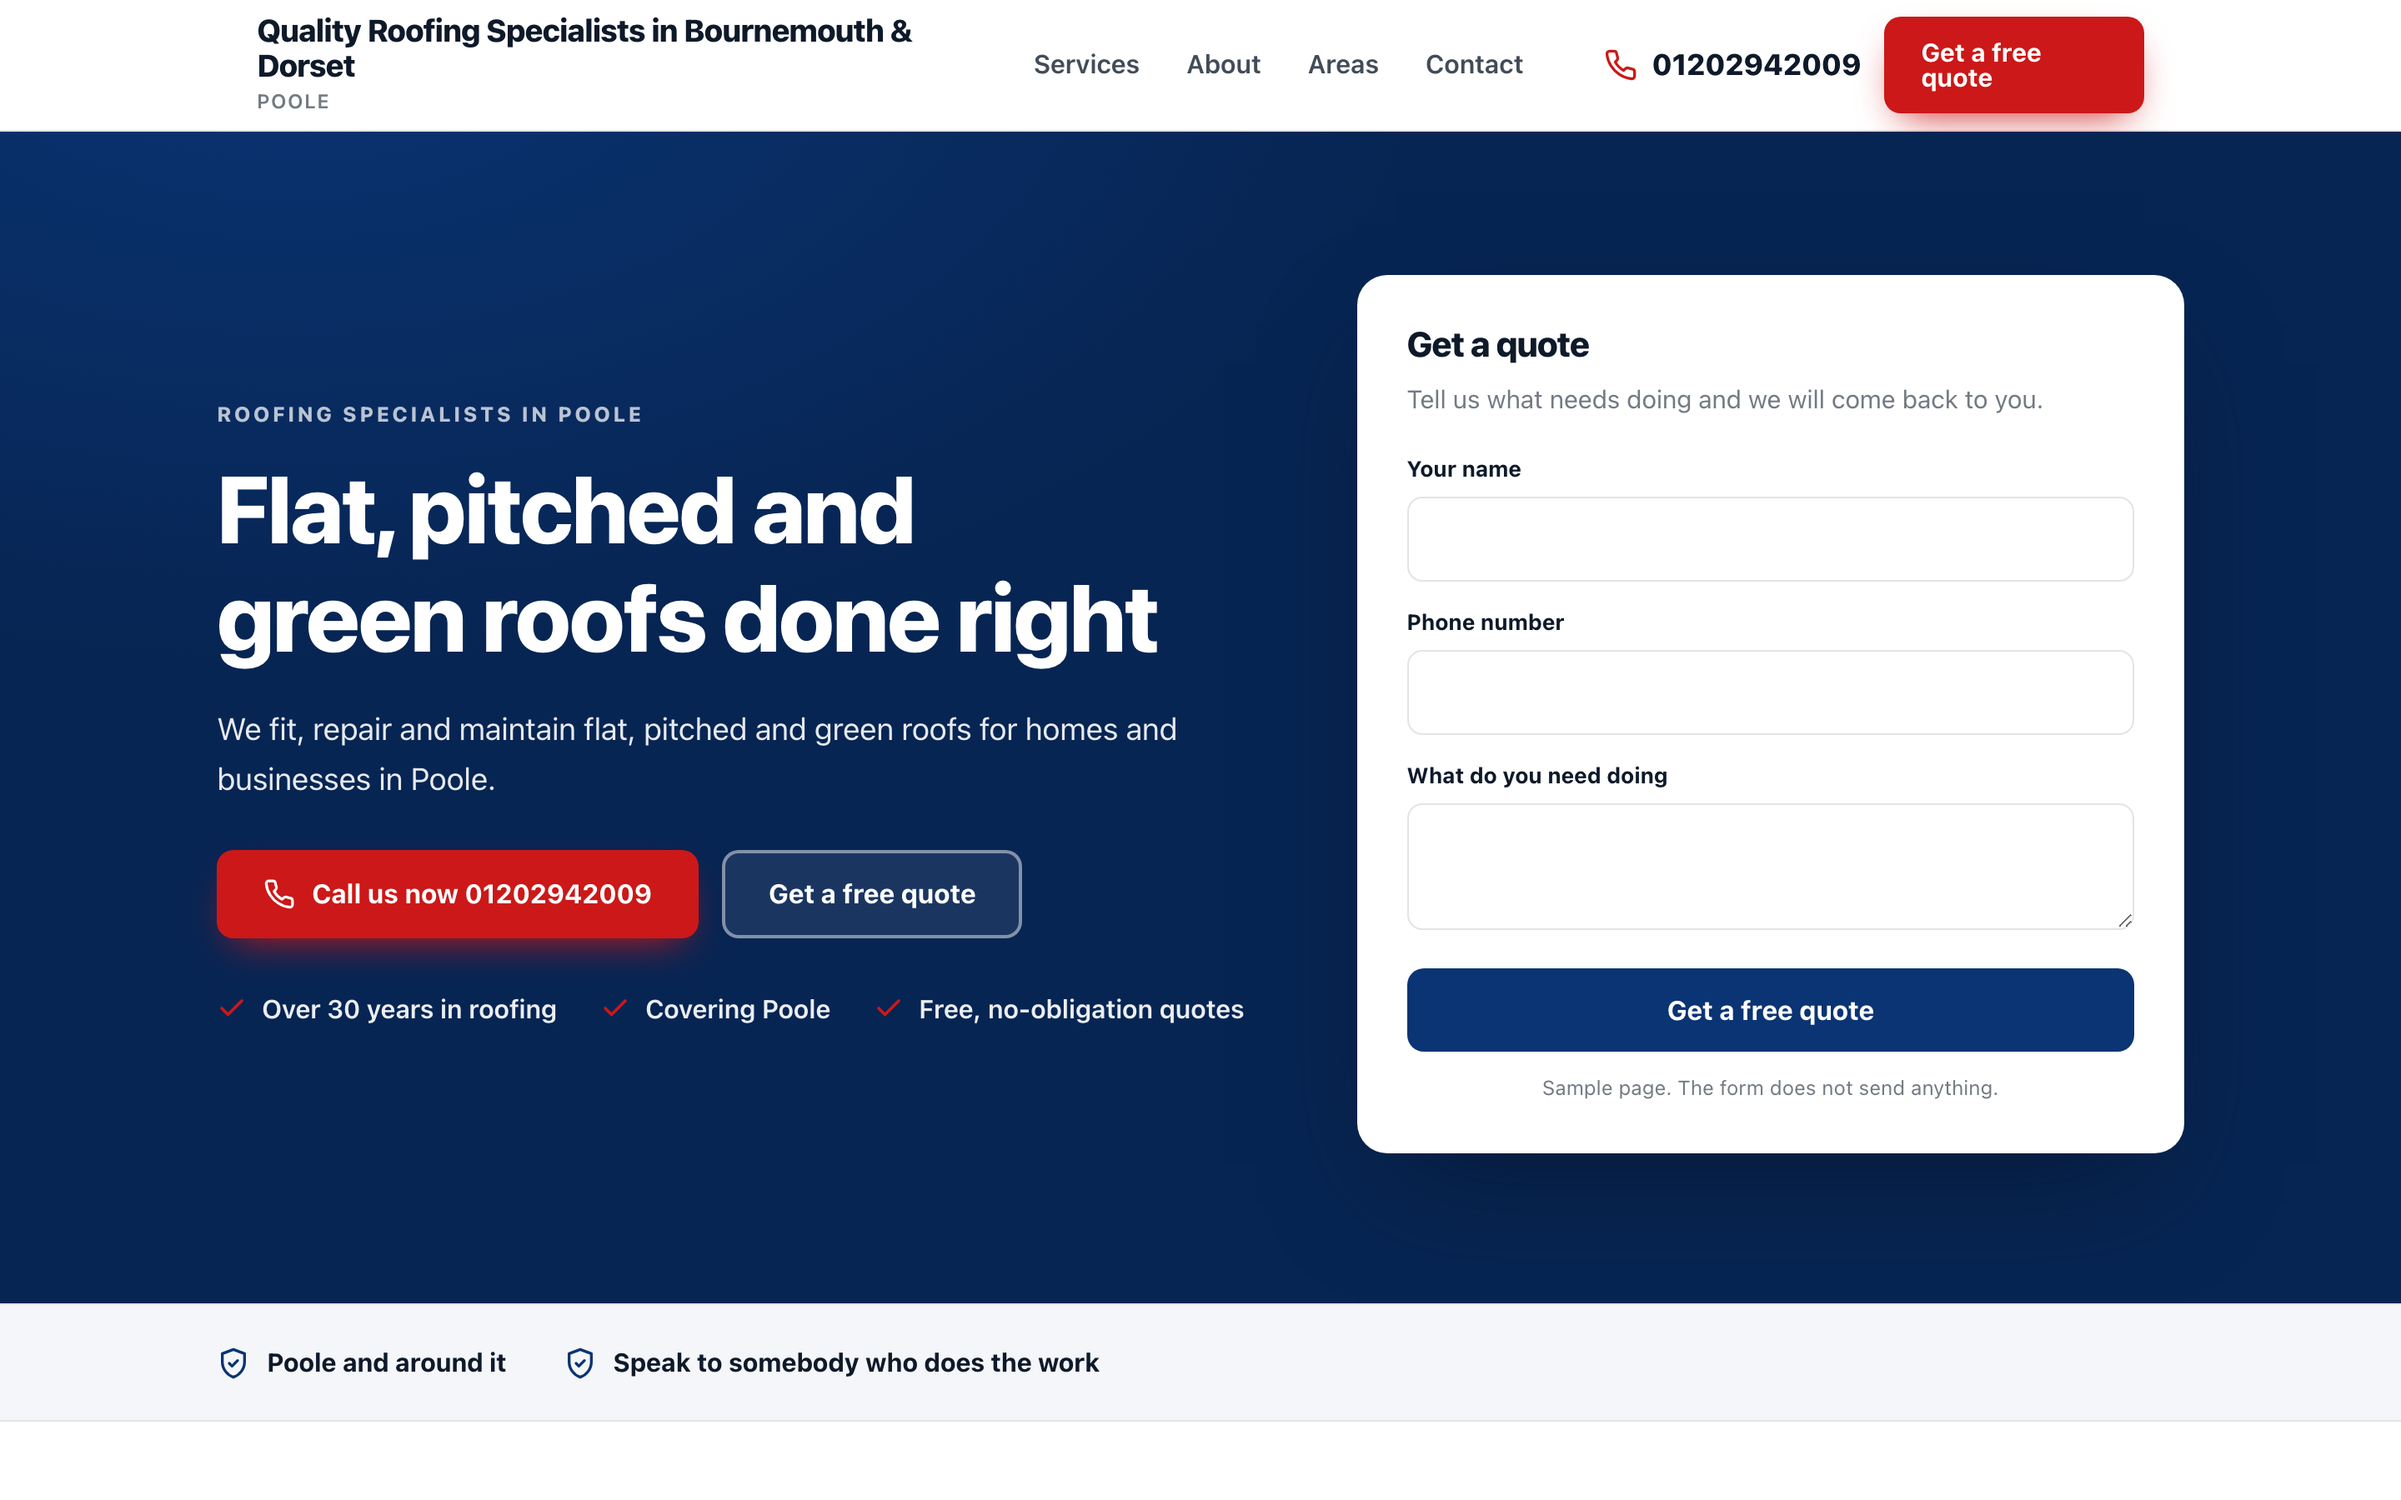
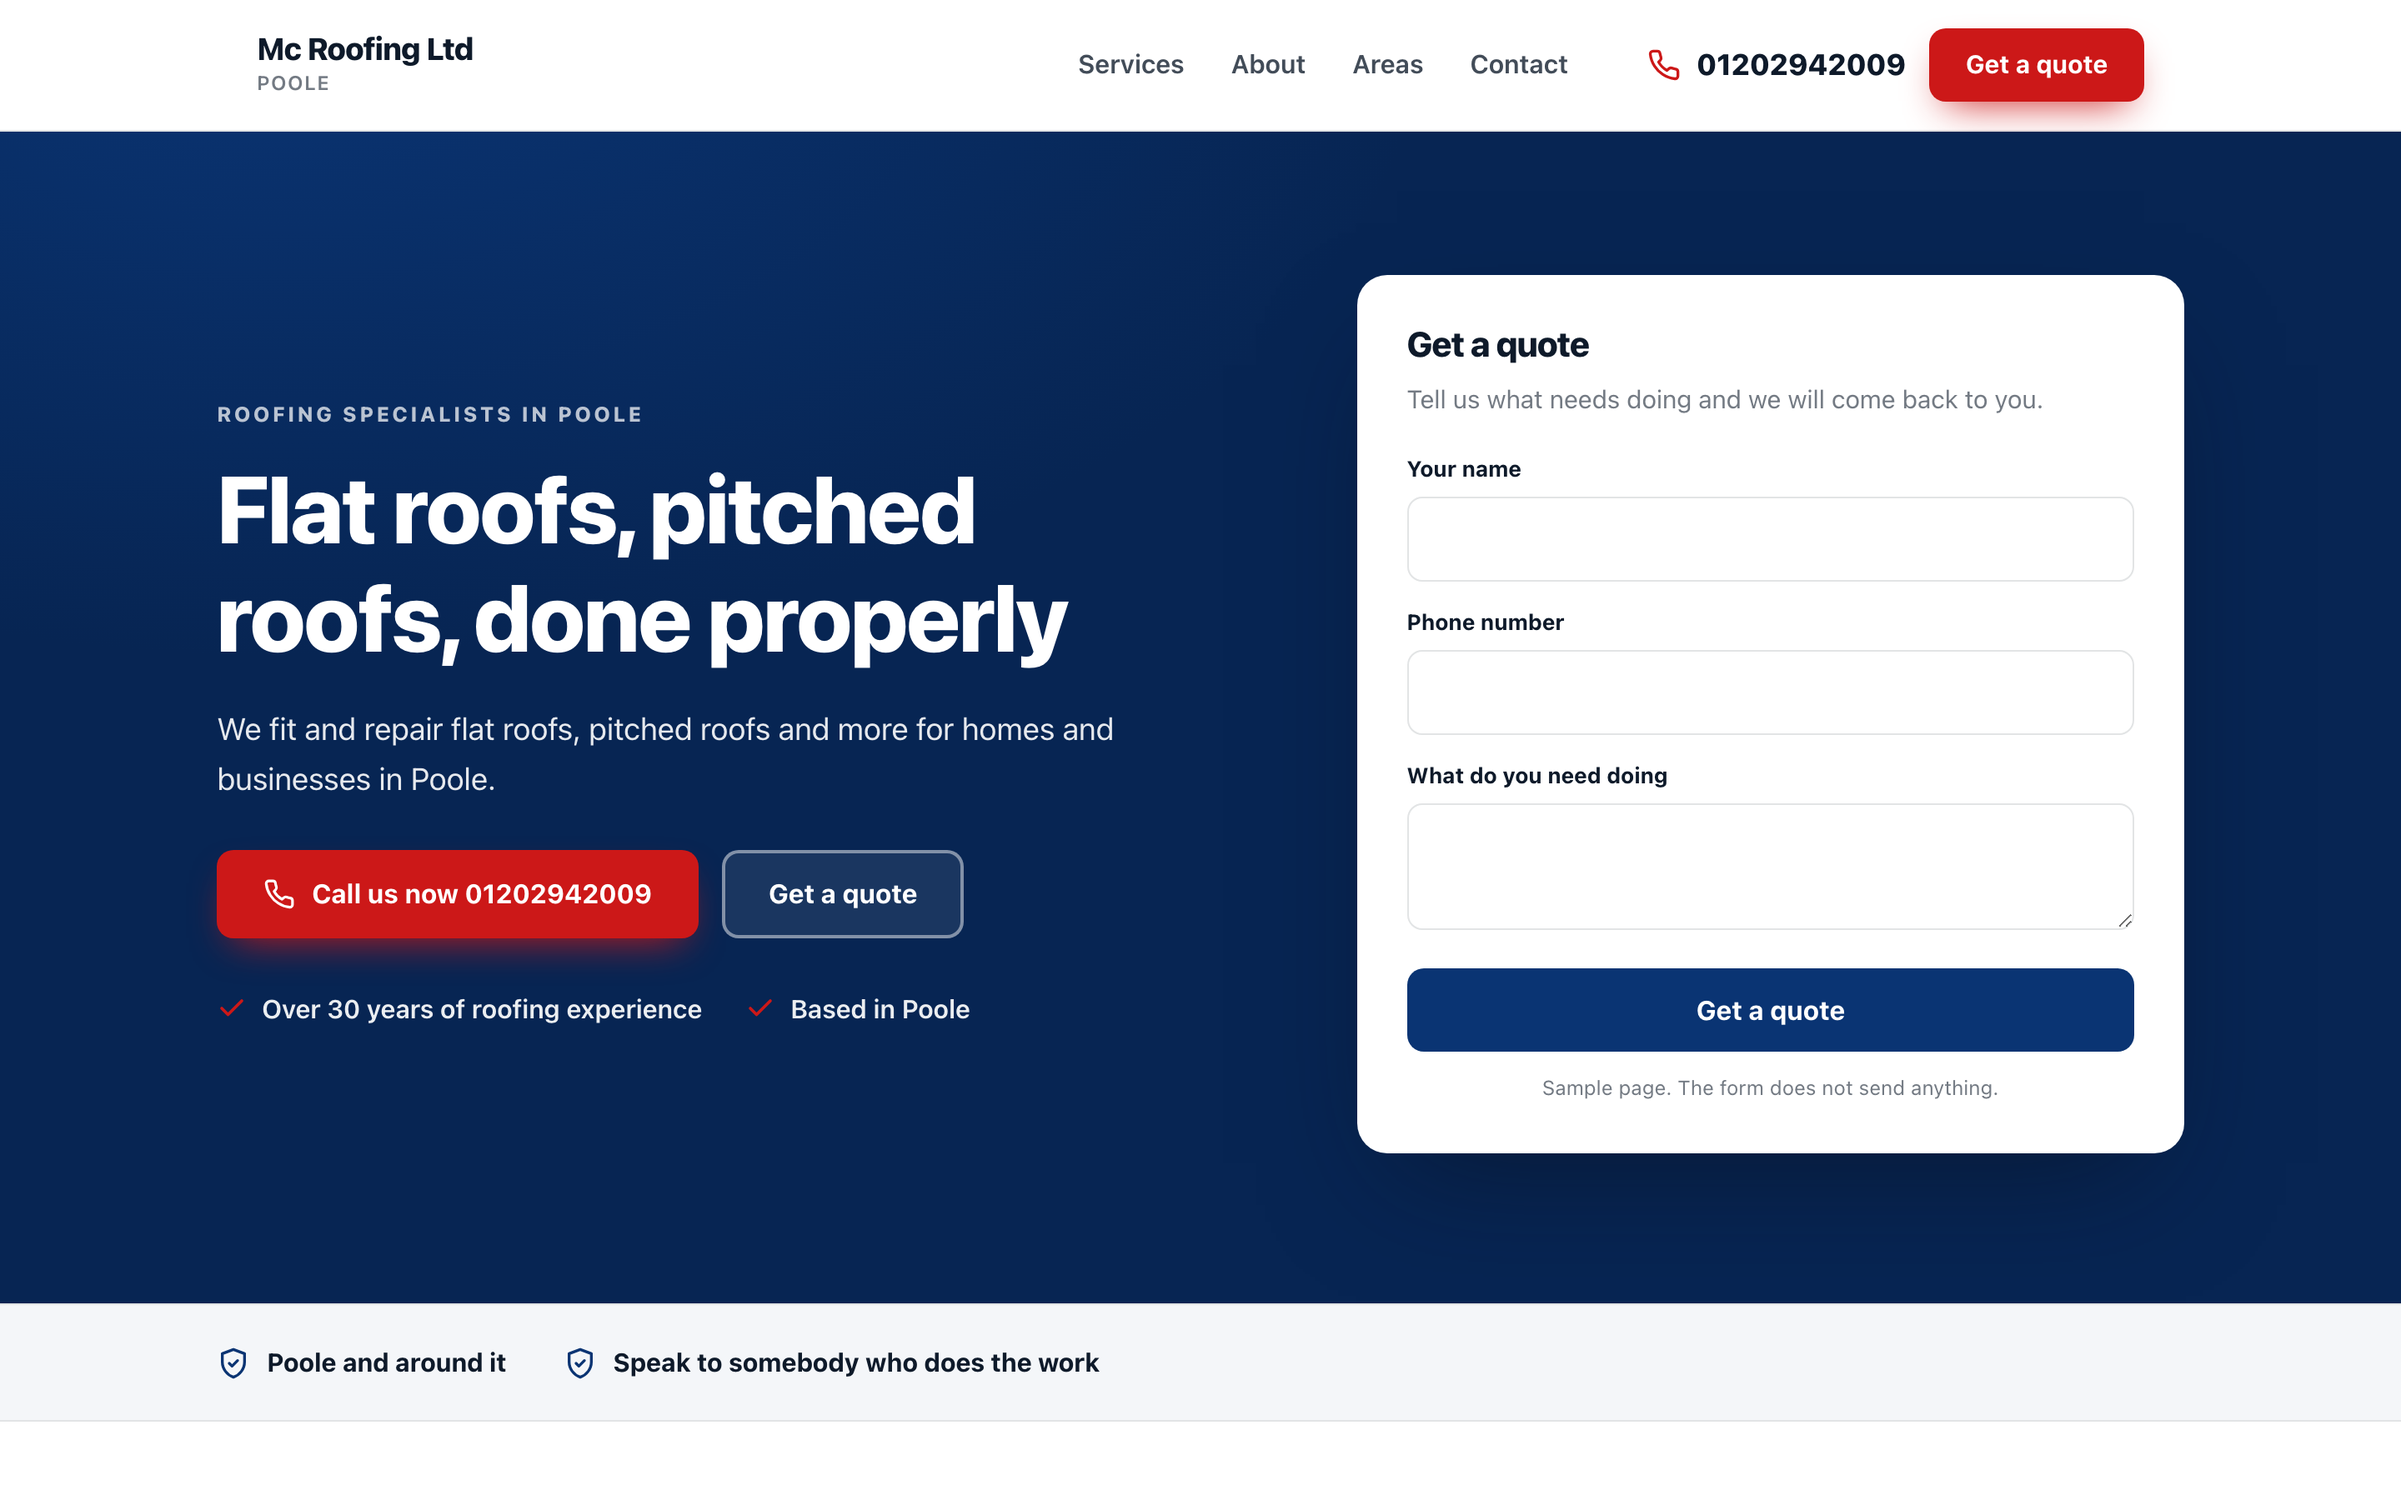
Sample homepage for Mc Roofing Ltd

diff --git a/docs/bddf1393a7/index.html b/docs/bddf1393a7/index.html
@@ -4,12 +4,12 @@
 <meta charset="utf-8">
 <meta name="viewport" content="width=device-width, initial-scale=1">
 <meta name="robots" content="noindex,nofollow">
-<title>Quality Roofing Specialists in Bournemouth &amp; Dorset sample homepage</title>
-<meta name="description" content="We fit, repair and maintain flat, pitched and green roofs for homes and businesses in Poole.">
+<title>Mc Roofing Ltd sample homepage</title>
+<meta name="description" content="We fit and repair flat roofs, pitched roofs and more for homes and businesses in Poole.">
 <link rel="canonical" href="https://markygff.github.io/aso-mockups/bddf1393a7/">
 <meta property="og:type" content="website">
-<meta property="og:title" content="Quality Roofing Specialists in Bournemouth &amp; Dorset sample homepage">
-<meta property="og:description" content="We fit, repair and maintain flat, pitched and green roofs for homes and businesses in Poole.">
+<meta property="og:title" content="Mc Roofing Ltd sample homepage">
+<meta property="og:description" content="We fit and repair flat roofs, pitched roofs and more for homes and businesses in Poole.">
 <meta property="og:url" content="https://markygff.github.io/aso-mockups/bddf1393a7/">
 <style>
 :root{
@@ -120,7 +120,7 @@ p{margin:0}
   <div class="wrap header-in">
     <div class="brand">
       <div>
-        <div class="brand-name">Quality Roofing Specialists in Bournemouth &amp; Dorset</div>
+        <div class="brand-name">Mc Roofing Ltd</div>
 <div class="brand-sub">Poole</div>      </div>
     </div>
     <nav class="nav">
@@ -128,7 +128,7 @@ p{margin:0}
     </nav>
     <div class="header-cta">
       <span class="tel"><svg viewBox="0 0 24 24" fill="none" stroke="currentColor" stroke-width="2" stroke-linecap="round" stroke-linejoin="round" aria-hidden="true"><path d="M22 16.9v3a2 2 0 0 1-2.2 2 19.8 19.8 0 0 1-8.6-3.1 19.5 19.5 0 0 1-6-6 19.8 19.8 0 0 1-3.1-8.7A2 2 0 0 1 4.1 2h3a2 2 0 0 1 2 1.7c.1 1 .4 1.9.7 2.8a2 2 0 0 1-.5 2.1L8.1 9.9a16 16 0 0 0 6 6l1.3-1.2a2 2 0 0 1 2.1-.5c.9.3 1.8.6 2.8.7a2 2 0 0 1 1.7 2z"/></svg><span>01202942009</span></span>
-      <span class="btn btn-accent">Get a free quote</span>
+      <span class="btn btn-accent">Get a quote</span>
     </div>
   </div>
 </header>
@@ -138,14 +138,14 @@ p{margin:0}
   <div class="wrap hero-in">
     <div>
       <p class="eyebrow">Roofing specialists in Poole</p>
-      <h1>Flat, pitched and green roofs done right</h1>
-      <p class="hero-sub">We fit, repair and maintain flat, pitched and green roofs for homes and businesses in Poole.</p>
+      <h1>Flat roofs, pitched roofs, done properly</h1>
+      <p class="hero-sub">We fit and repair flat roofs, pitched roofs and more for homes and businesses in Poole.</p>
       <div class="hero-actions">
         <span class="btn btn-accent"><svg viewBox="0 0 24 24" fill="none" stroke="currentColor" stroke-width="2" stroke-linecap="round" stroke-linejoin="round" aria-hidden="true"><path d="M22 16.9v3a2 2 0 0 1-2.2 2 19.8 19.8 0 0 1-8.6-3.1 19.5 19.5 0 0 1-6-6 19.8 19.8 0 0 1-3.1-8.7A2 2 0 0 1 4.1 2h3a2 2 0 0 1 2 1.7c.1 1 .4 1.9.7 2.8a2 2 0 0 1-.5 2.1L8.1 9.9a16 16 0 0 0 6 6l1.3-1.2a2 2 0 0 1 2.1-.5c.9.3 1.8.6 2.8.7a2 2 0 0 1 1.7 2z"/></svg>Call us now 01202942009</span>
-        <span class="btn btn-ghost">Get a free quote</span>
+        <span class="btn btn-ghost">Get a quote</span>
       </div>
       <ul class="hero-bullets">
-<li><svg viewBox="0 0 24 24" fill="none" stroke="currentColor" stroke-width="2.4" stroke-linecap="round" stroke-linejoin="round" aria-hidden="true"><path d="M20 6 9 17l-5-5"/></svg><span>Over 30 years in roofing</span></li><li><svg viewBox="0 0 24 24" fill="none" stroke="currentColor" stroke-width="2.4" stroke-linecap="round" stroke-linejoin="round" aria-hidden="true"><path d="M20 6 9 17l-5-5"/></svg><span>Covering Poole</span></li><li><svg viewBox="0 0 24 24" fill="none" stroke="currentColor" stroke-width="2.4" stroke-linecap="round" stroke-linejoin="round" aria-hidden="true"><path d="M20 6 9 17l-5-5"/></svg><span>Free, no-obligation quotes</span></li>      </ul>
+<li><svg viewBox="0 0 24 24" fill="none" stroke="currentColor" stroke-width="2.4" stroke-linecap="round" stroke-linejoin="round" aria-hidden="true"><path d="M20 6 9 17l-5-5"/></svg><span>Over 30 years of roofing experience</span></li><li><svg viewBox="0 0 24 24" fill="none" stroke="currentColor" stroke-width="2.4" stroke-linecap="round" stroke-linejoin="round" aria-hidden="true"><path d="M20 6 9 17l-5-5"/></svg><span>Based in Poole</span></li>      </ul>
     </div>
     <div class="quote-card">
       <h3>Get a quote</h3>
@@ -153,7 +153,7 @@ p{margin:0}
       <div class="field"><label>Your name</label><input type="text" disabled></div>
       <div class="field"><label>Phone number</label><input type="tel" disabled></div>
       <div class="field"><label>What do you need doing</label><textarea disabled></textarea></div>
-      <span class="btn btn-primary">Get a free quote</span>
+      <span class="btn btn-primary">Get a quote</span>
       <p class="sample-note">Sample page. The form does not send anything.</p>
     </div>
   </div>
@@ -170,29 +170,29 @@ p{margin:0}
   <div class="wrap">
     <div class="services-head">
       <p class="eyebrow">What we do</p>
-      <h2>Quality Roofing Specialists in Bournemouth &amp; Dorset, Poole</h2>
-      <p>We fit, repair and maintain flat, pitched and green roofs for homes and businesses in Poole.</p>
+      <h2>Mc Roofing Ltd, Poole</h2>
+      <p>We fit and repair flat roofs, pitched roofs and more for homes and businesses in Poole.</p>
     </div>
     <div class="grid">
       <article class="card">
         <div class="icon"><svg viewBox="0 0 24 24" fill="none" stroke="currentColor" stroke-width="2" stroke-linecap="round" stroke-linejoin="round" aria-hidden="true"><path d="M14.7 6.3a4 4 0 0 0 5.3 5.3l-8 8a3 3 0 0 1-4.2-4.2z"/><path d="m14.7 6.3 3-3"/></svg></div>
         <h3>Flat Roofs</h3>
-        <p>We install and repair flat roofs for homes and businesses.</p>
+        <p>We install and repair flat roofs on homes and commercial buildings.</p>
       </article>
       <article class="card">
         <div class="icon"><svg viewBox="0 0 24 24" fill="none" stroke="currentColor" stroke-width="2" stroke-linecap="round" stroke-linejoin="round" aria-hidden="true"><path d="M13 2 4 14h7l-1 8 9-12h-7z"/></svg></div>
         <h3>Pitched Roofs</h3>
-        <p>We fit and maintain pitched roofs built to last.</p>
+        <p>We handle pitched roof installs, repairs and refurbishments.</p>
       </article>
       <article class="card">
         <div class="icon"><svg viewBox="0 0 24 24" fill="none" stroke="currentColor" stroke-width="2" stroke-linecap="round" stroke-linejoin="round" aria-hidden="true"><path d="M3 10.5 12 3l9 7.5"/><path d="M5 9.5V21h14V9.5"/><path d="M10 21v-6h4v6"/></svg></div>
-        <h3>Green Roofs</h3>
-        <p>We design and install green roofs for your property.</p>
+        <h3>Electronic Leak Detection</h3>
+        <p>We track down hidden roof leaks before they cause more damage.</p>
       </article>
       <article class="card">
         <div class="icon"><svg viewBox="0 0 24 24" fill="none" stroke="currentColor" stroke-width="2" stroke-linecap="round" stroke-linejoin="round" aria-hidden="true"><path d="M4 20 15 9"/><path d="m14 4 6 6-3 3-6-6z"/><path d="m3 15 6 6"/></svg></div>
         <h3>Solar Roofing</h3>
-        <p>We fit solar roofing for homes and businesses in Poole.</p>
+        <p>We fit solar roofing as part of your roof project.</p>
       </article>
     </div>
   </div>
@@ -200,7 +200,7 @@ p{margin:0}
 
 <footer class="footer">
   <div class="wrap footer-in">
-    <span>Sample built for Quality Roofing Specialists in Bournemouth &amp; Dorset from your public website. Not live. Tell us and we delete it.</span>
+    <span>Sample built for Mc Roofing Ltd from your public website. Not live. Tell us and we delete it.</span>
     <span>mcroofingltd.co.uk</span>
   </div>
 </footer>
